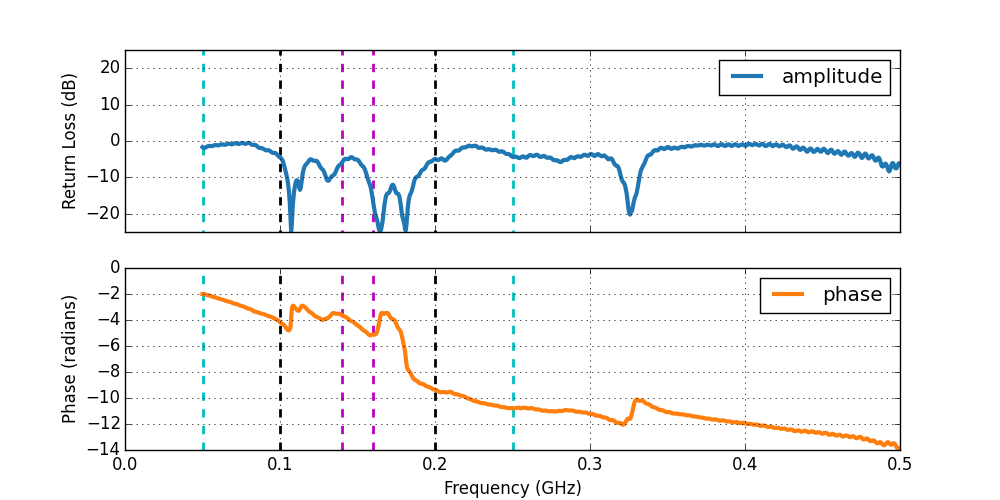
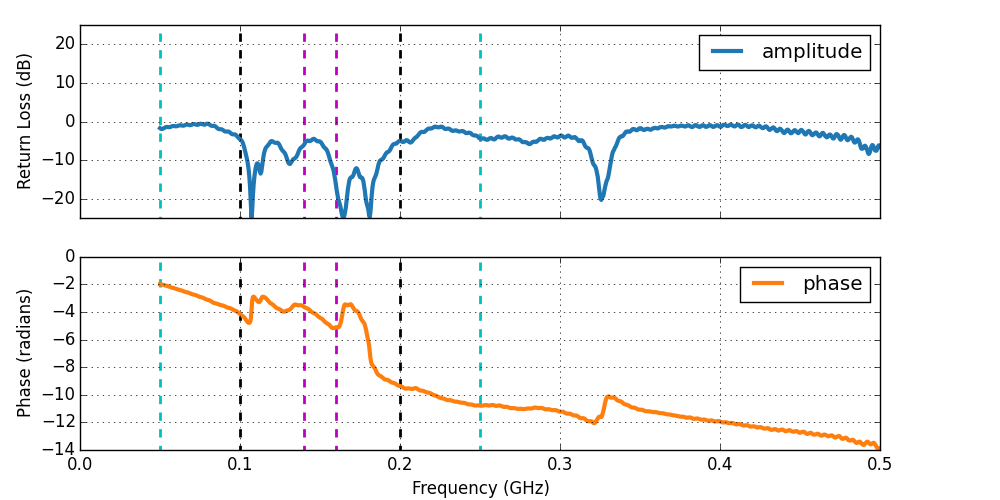
updated some text and figures.

diff --git a/Memo.tex b/Memo.tex
@@ -1,6 +1,6 @@
 \documentclass[12pt,preprint]{aastex}
-\usepackage{geometry,amsmath}
-\usepackage{float}
+\usepackage[margin=1in]{geometry}
+\usepackage{float,amsmath}
 %\usepackage{titlesec} %used to format titles
 \usepackage{graphicx} %for handling figures
 %\usepackage[none]{hyphenat} %disallows hyphenated words
@@ -14,15 +14,62 @@
 
 \section{Introduction}
 
-There are several different sources of instrumental chromaticity for an interferometer such as HERA that each introduce unwanted systematics in data. One such source results from the antenna, which can introduce non-spectrally smooth structure in data due to delays associated with internal signal reflections. The HERA element was designed to minimize this structure - the contamination outside the foreground `wedge' - so that the expected level of the 21cm reionization signal that we are interested in still dominates this region. In order to achieve this, a chromaticity specification of -60dB at 60ns was implemented in the HERA element design, setting a constraint on the level of reflections. In other words, when a signal that originates at the feed re-enters the feed after a time delay of 60ns, it must be attenuated by at least 60dB. 
+There are several different sources of instrumental chromaticity for an
+interferometer such as HERA that each introduce unwanted systematics in data
+(Cite Dish Memo). One such source results from the antenna, which can introduce
+non-spectrally smooth structure in data due to delays associated with internal
+signal reflections. The HERA element was designed to minimize this structure -
+the contamination outside the foreground `wedge' - so that the expected level
+of the 21cm reionization signal that we are interested in still dominates this
+region. In order to achieve this, a chromaticity specification of -60dB at 60ns
+was implemented in the HERA element design, setting a constraint on the level
+of reflections. In other words, when a signal that originates at the feed
+re-enters the feed after a time delay of 60ns, it must be attenuated by at
+least 60dB. 
 
-Understanding the nature of antenna reflections in the HERA dish is of the utmost importance in characterizing the performance of the dish. As HERA progresses as an experiment, it is necessary to build optimal dishes that promise to minimize the challenges of chromaticity in our quest for the Epoch of Reioinization.
+Understanding the nature of antenna reflections in the HERA dish is of the
+utmost importance in characterizing the performance of the dish. As HERA
+progresses as an experiment, it is necessary to build optimal dishes that
+promise to minimize the challenges of chromaticity in our quest for the Epoch
+of Reioinization.
+
+\begin{figure}
+\centering
+\includegraphics[totalheight=0.3\textheight]{plots/reflection_cartoon.png}
+\caption{The blue solid lines represent an original sky signal entering the feed. A small percentage of it (dashed blue) is reflected off the dish, and it is these reflections that we are concerned about. In our measurements however, the reflections measured contain most of the original pulse signal (solid red), so it is crucial to adjust for this difference in our analysis.}
+\label{fig:cartoon}
+\end{figure}
+
+\begin{figure}
+\centering
+\includegraphics[totalheight=0.4\textheight]{plots/frequency_amp_phase_fullbw.png}
+\caption{Amplitude and phase of the measured return loss. Colored dashed lines mark three different frequency bands: 140-160MHz, 100-200MHz, and 50-250MHz.}
+\label{fig:freq}
+\end{figure}
+
+
 
 \section{Theory}{\label{sec:theory}}
 
-In practice, a HERA dish receives signal from the sky. Lightwaves propagate in from infinity, are incident on the parabolic dish and then focussed at the feed. For a well-designed feed, most of the signal will be transmitted through the feed, and only a small percentage of the signal reflects off the dish a second time (blue arrows in Figure \ref{fig:cartoon}). Therefore, the reflections we are concerned about are significantly less strong than the original signal, and it is this amount of reflection that we aim to quantify. In other words, we consider the reflection off the feed and the subsequent reflection off the dish as one reflection.
 
-Quantitatively, if the incident power is $P_{sky}$, the feed power reflection coefficient is $\Gamma_{a}$, and the dish reflection coefficient is $\Gamma_{d}$, then the net power entering the feed after an $n^{th}$ reflection off the feed and the dish is:
+
+In practice, a HERA dish receives signal from the sky\footnote{All astronomical
+telescopes operate in this way.}. Light waves that propagate in from infinity are
+incident on the parabolic dish and then focussed at the feed at the focal
+height. For a well-designed feed, one that is has an impedance match to
+free space\footnote{The impedance of free space is $Z_{0} = \mu_{0}c_{0} =
+\frac{1}{\epsilon_{0}c_{0}} \approx 377\Omega $.}, most of the signal will be
+transmitted through the feed while only a small percentage will be reflected
+back towards the dish for a secondary reflection into feed (blue arrows in
+Figure \ref{fig:cartoon}).  Therefore, the reflections we are concerned about
+are significantly less strong than the original signal, and it is this amount of
+reflection that we aim to quantify.  In other words, we consider the reflection
+off the feed and the subsequent reflection off the dish as one reflection.
+
+Quantitatively, if the incident power from sky signal is $P_{sky}$, the feed
+reflection coefficient is $\Gamma_{a}$, and the dish reflection
+coefficient is $\Gamma_{d}$, then the net power entering the feed after an
+$n^{th}$ reflection off the feed and the dish is:
 
 \begin{equation}
 P_{in} =  P_{sky}(1-\Gamma_{a})\Gamma_{d} [1+ \Gamma_{a}\Gamma_{d} e^{i\phi}+ (\Gamma_{a}\Gamma_{d})^2e^{i2\phi}+ ....+ (\Gamma_{d}\Gamma_{n})^{n}e^{in\phi}]
@@ -30,7 +77,8 @@ P_{in} =  P_{sky}(1-\Gamma_{a})\Gamma_{d} [1+ \Gamma_{a}\Gamma_{d} e^{i\phi}+ (\
 
 where, $\phi = ({2\pi \over c})f 2l$ is the propagation delay of a lightwave of frequency $f$ due to a reflection over a focal distance $l$. 
 Therefore:
-
+[XXX should there be a phase term in the series representation in the equation
+below?]
 \begin{eqnarray}
 {P_{in} \over P_{sky} } & = & (1-\Gamma_{a})\Gamma_{d} [1+ \Gamma_{a}\Gamma_{d} e^{i\phi}+ (\Gamma_{a}\Gamma_{d})^2e^{i2\phi}+ ....+ (\Gamma_{d}\Gamma_{n})^{n}e^{in\phi}] \nonumber\\
       & = & (1-\Gamma_{a})\Gamma_{d} {1-(\Gamma_{d}\Gamma_{a})^{n} \over 1-\Gamma_{d} \Gamma_{a} } 
@@ -70,12 +118,6 @@ The VNA measures the magnitude and phase of the quantity ${P_{ret}\over P_{tr}}$
 
 In summary, our experimental set-up differs from measuring sky signal reflections since we send a pulse that is to be transmitted from the feed. This results in a reversed situations - most of our original signal is transmitted from the feed to be reflected from the dish, while a small percentage reflects back down the cable (red arrows in Figure \ref{fig:cartoon}). This difference between the receiving and transmitting antenna cases is a discrepancy we have to correct for in our analysis.
 
-\begin{figure}
-\centering
-\includegraphics[totalheight=0.5\textheight]{plots/reflection_cartoon.png}
-\caption{The blue solid lines represent an original sky signal entering the feed. A small percentage of it (dashed blue) is reflected off the dish, and it is these reflections that we are concerned about. In our measurements however, the reflections measured contain most of the original pulse signal (solid red), so it is crucial to adjust for this difference in our analysis.}
-\label{fig:cartoon}
-\end{figure}
  
 \section{Methodology}{\label{sec:methods}}
 
@@ -88,7 +130,7 @@ prototype, the feed is a PAPER dipole encased in a cylindrical cage encompassing
 the backplane. The PAPER feed and the backplane (which prevents feed-to-feed
 interaction between neighboring dishes) is raised and lowered by a three-pulley
 system. The focal height of the dish is 4.5m ($\sim{14.76}$ft). Feed heights quoted in our measurements represent the distance from the balun to the top of the central concrete hub. Note, however, that the actual focal height of the dish represents the distance from the backplane of the feed to the dish's wire mesh, which intersects the concrete hub between the ground and the top of the hub. 
-%XXX get discrepancy distance from DaveD.
+%XXX get discrepancy distance from DaveD. (1.7 ft from the bottom plate of sandwich to the top of the the cage and .26 ft from the top of the concrete hub to the middle where the parabola starts)
 
 The following reflectometry measurements were taken on July 20-23, 2015 using a
 FieldFox unit in Network Analyzer mode. A pulse is generated in the FieldFox
@@ -102,7 +144,7 @@ can be used in the Fourier transform. Without a window function, taking the Four
 
 \begin{figure}
 \centering
-\includegraphics[totalheight=0.5\textheight]{plots/bh_vs_sq.png}
+\includegraphics[totalheight=0.4\textheight]{plots/bh_vs_sq.png}
 \caption{Delay plot produced using a Blackman-Harris window function vs. a square window function for the PAPER bandwidth.}
 \label{fig:window}
 \end{figure}
@@ -111,7 +153,7 @@ As mentioned in Section \ref{sec:theory}, there is a mis-match in amplitude betw
 
 \begin{figure}
 \centering
-\includegraphics[trim={2cm 20cm 30cm 15cm},clip, totalheight=0.45\textheight]{plots/heradish.jpg}
+\includegraphics[trim={2cm 20cm 30cm 15cm},clip, totalheight=0.3\textheight]{plots/heradish.jpg}
 \caption{HERA dish and feed at the Green Bank NRAO site.}
 \label{fig:heradish}
 \end{figure}
@@ -120,18 +162,11 @@ As mentioned in Section \ref{sec:theory}, there is a mis-match in amplitude betw
 
 Figure \ref{fig:freq} shows the return loss for a frequency bandwidth of 50 to 500MHz. This measurement was taken with the feed suspended at 12ft (distance between the balun and top of the central concrete hub). Because the return loss is the ratio of the power received to the power transmitted, higher reflections can clearly be seen outside of the PAPER bandwidth. This is not surprising, since the feed is tuned specifically for PAPER. The return loss minima are locations where our feed is well-matched to free space.
 
-\begin{figure}
-\centering
-\includegraphics[totalheight=0.4\textheight]{plots/frequency_amp_phase_fullbw.png}
-\caption{Amplitude and phase of the measured return loss. Colored dashed lines mark three different frequency bands: 140-160MHz, 100-200MHz, and 50-250MHz.}
-\label{fig:freq}
-\end{figure}
-
 In Figure \ref{fig:3bands}, the return loss is plotted versus delay for three chosen bandwidths: the HERA bandwidth, the PAPER bandwidth, and a typical power spectra bandwidth when using a Blackman-Harris window function. It is again shown that the reflections are minimized for the PAPER bandwidth. 
 
 \begin{figure}
 \centering
-\includegraphics[totalheight=0.5\textheight]{plots/delay3_window.png}
+\includegraphics[totalheight=0.4\textheight]{plots/delay3_window.png}
 \caption{Delay plots produced using a Blackman-Harris window function for 3 different frequency bandwidths: 50MHz-250MHz (``hera"), 100MHz-200MHz (``paper"), and 140MHz-160MHz (``pspec"). The black dashed lines illustrate our ``60 by 60" specification.}
 \label{fig:3bands}
 \end{figure}
@@ -140,7 +175,7 @@ Figure \ref{fig:elevator} is again a delay plot of the return loss, but for four
 
 \begin{figure}
 \centering
-\includegraphics[totalheight=0.5\textheight]{plots/delay_heights_paper.png}
+\includegraphics[totalheight=0.4\textheight]{plots/delay_heights_paper.png}
 \caption{Delay plots produced using a Blackman-Harris window function for 4 different feed heights and the PAPER bandwidth. The black dashed lines illustrate our ``60 by 60" specification.}
 \label{fig:elevator}
 \end{figure}
@@ -149,7 +184,7 @@ Finally, Figure \ref{fig:outofthedish} presents measurements taken of the feed a
 
 \begin{figure}
 \centering
-\includegraphics[totalheight=0.5\textheight]{plots/delay_feed.png}
+\includegraphics[totalheight=0.4\textheight]{plots/delay_feed.png}
 \caption{Delay plots produced using a Blackman-Harris window function for different lone feed configurations and the PAPER bandwidth. The black dashed lines illustrate our ``60 by 60" specification.}
 \label{fig:outofthedish}
 \end{figure}

diff --git a/plots/plot_heights.py b/plots/plot_heights.py
@@ -41,6 +41,7 @@ phs_end = '_P.csv'
 valids = ['C_NC41','C_NC41_AB']
 labels = ['feed in cage on ground','feed in cage on absorber']
 
+fig, ax = p.subplots(nrows=1,ncols=1)
 for i,v in enumerate(valids):
     fq,amps = fromcsv(file_base + str(v) + amp_end)
     fq,phs = fromcsv(file_base + str(v) + phs_end)
@@ -49,7 +50,7 @@ for i,v in enumerate(valids):
     bandwidth = n.where(n.logical_and(fq>.05,fq<.5)) #full bandwidth
     dw, d, tau = take_delay(amps[bandwidth], phs[bandwidth], fq[bandwidth])
 #    p.plot(tau, 10*n.log10(n.abs(dw)**2), linewidth=2, label=('%s'%v)+'ft', color=colors[i])
-    p.plot(tau, 10*n.log10(n.abs(dw)**2), linewidth=2, label=labels[i], color=colors[i])
+    ax.plot(tau, 10*n.log10(n.abs(dw)**2), linewidth=2, label=labels[i], color=colors[i])
 p.xlim(-30,350)
 p.ylim(-100, 1)
 p.vlines(60, -100,100, linestyle='--', linewidth=2)
@@ -58,5 +59,7 @@ p.xlabel('delay (ns)')
 p.ylabel('return loss (dB)')
 p.grid(1)
 p.legend()
+
+fig.subplots_adjust(left=.08, top=.95, bottom=.10,right=0.92)
 
 p.show()

diff --git a/plots/plot_frequency.py b/plots/plot_frequency.py
@@ -63,4 +63,6 @@ ax2.vlines(.14, -100, 100, linestyle='--', linewidth=2, color='m')
 ax2.vlines(.16, -100, 100, linestyle='--', linewidth=2, color='m')
 ax2.legend()
 
+fig.subplots_adjust(left=.08, top=.95, bottom=.10,right=0.88)
+
 p.show()
